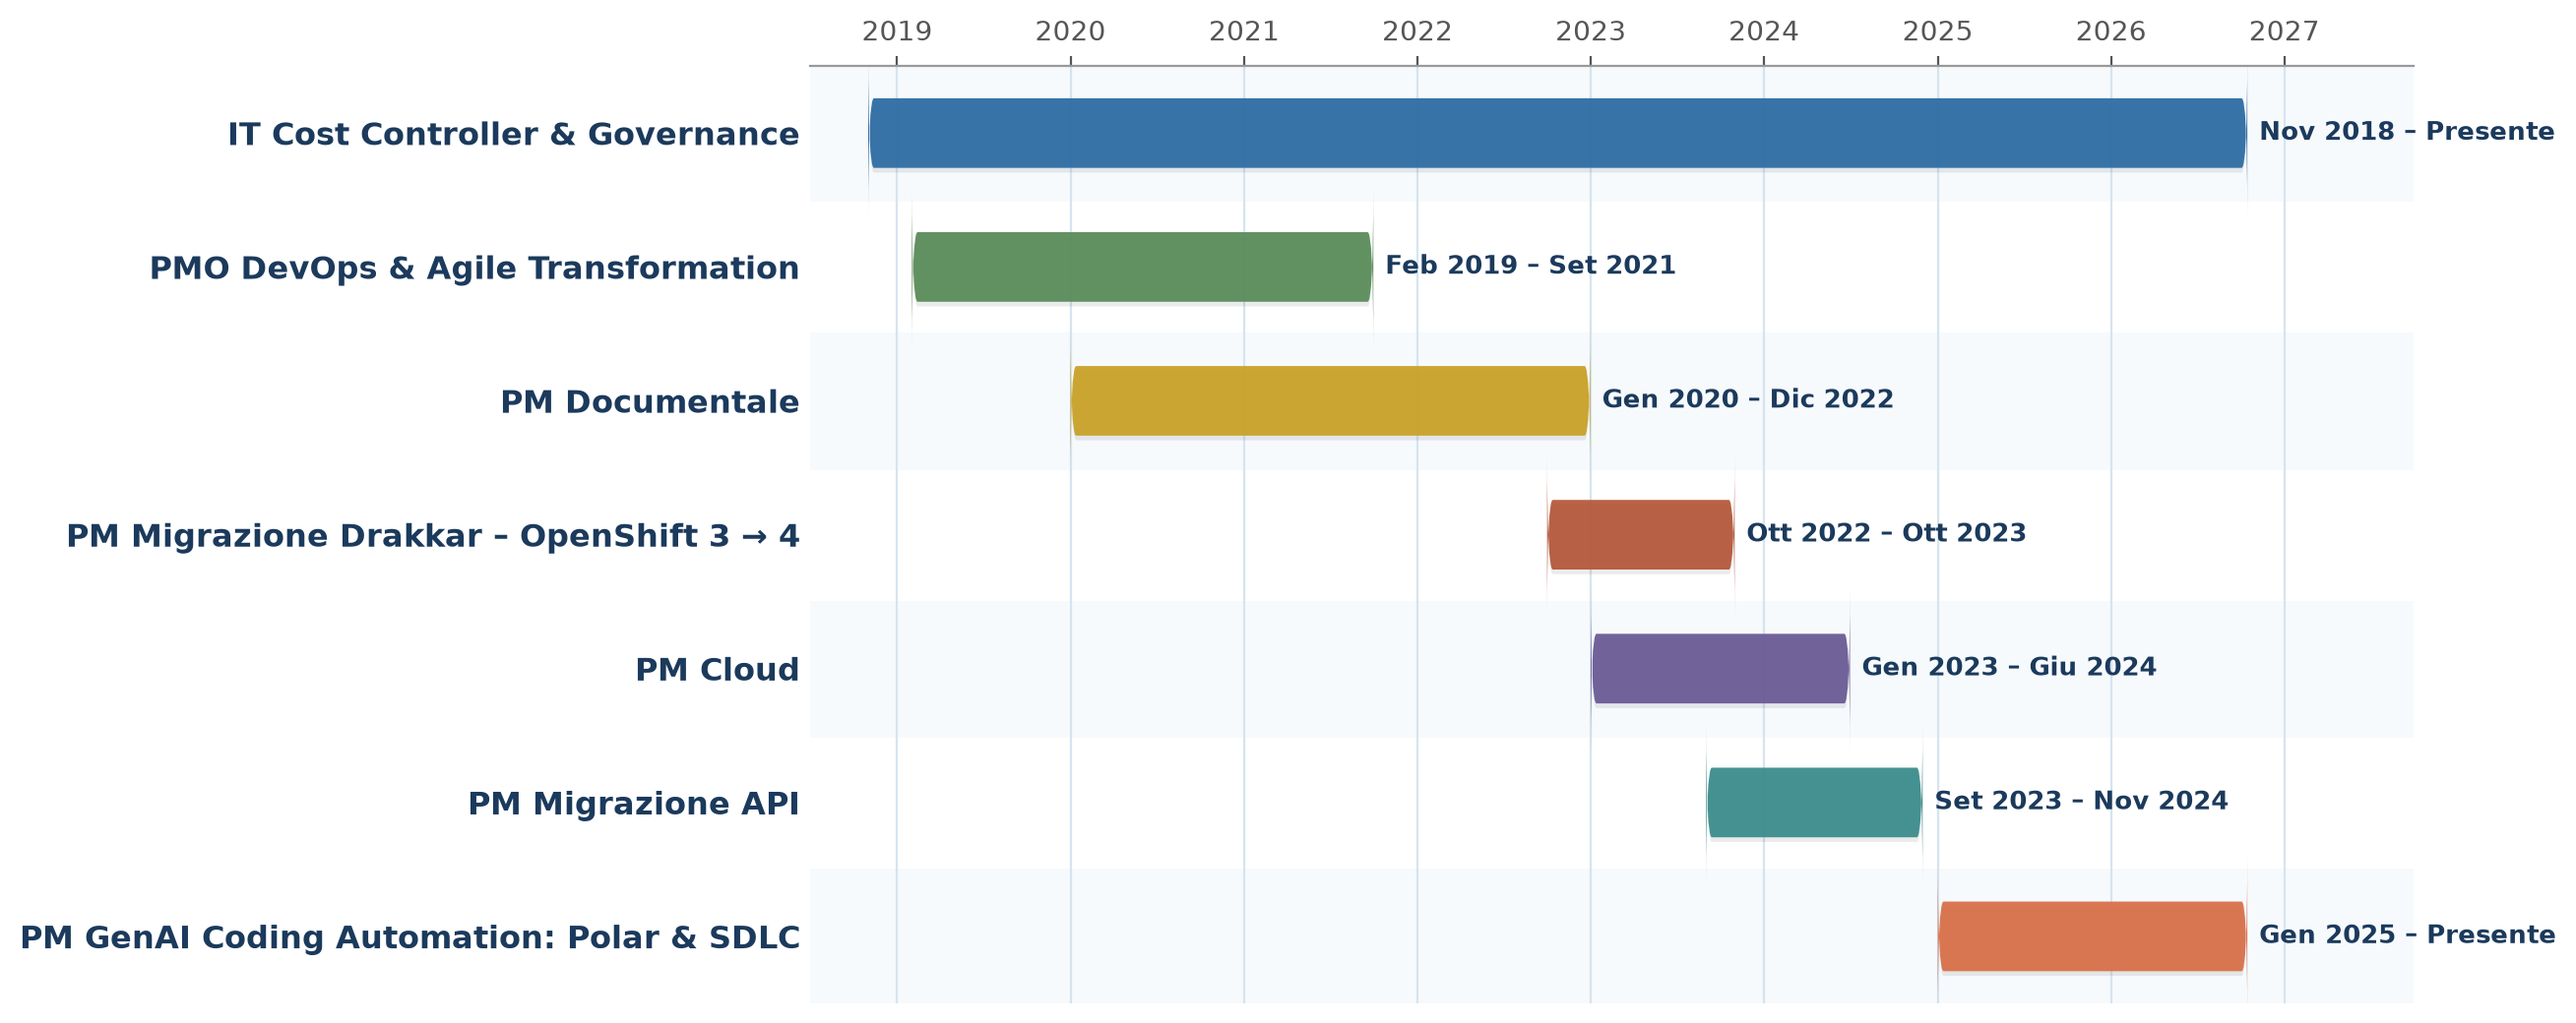
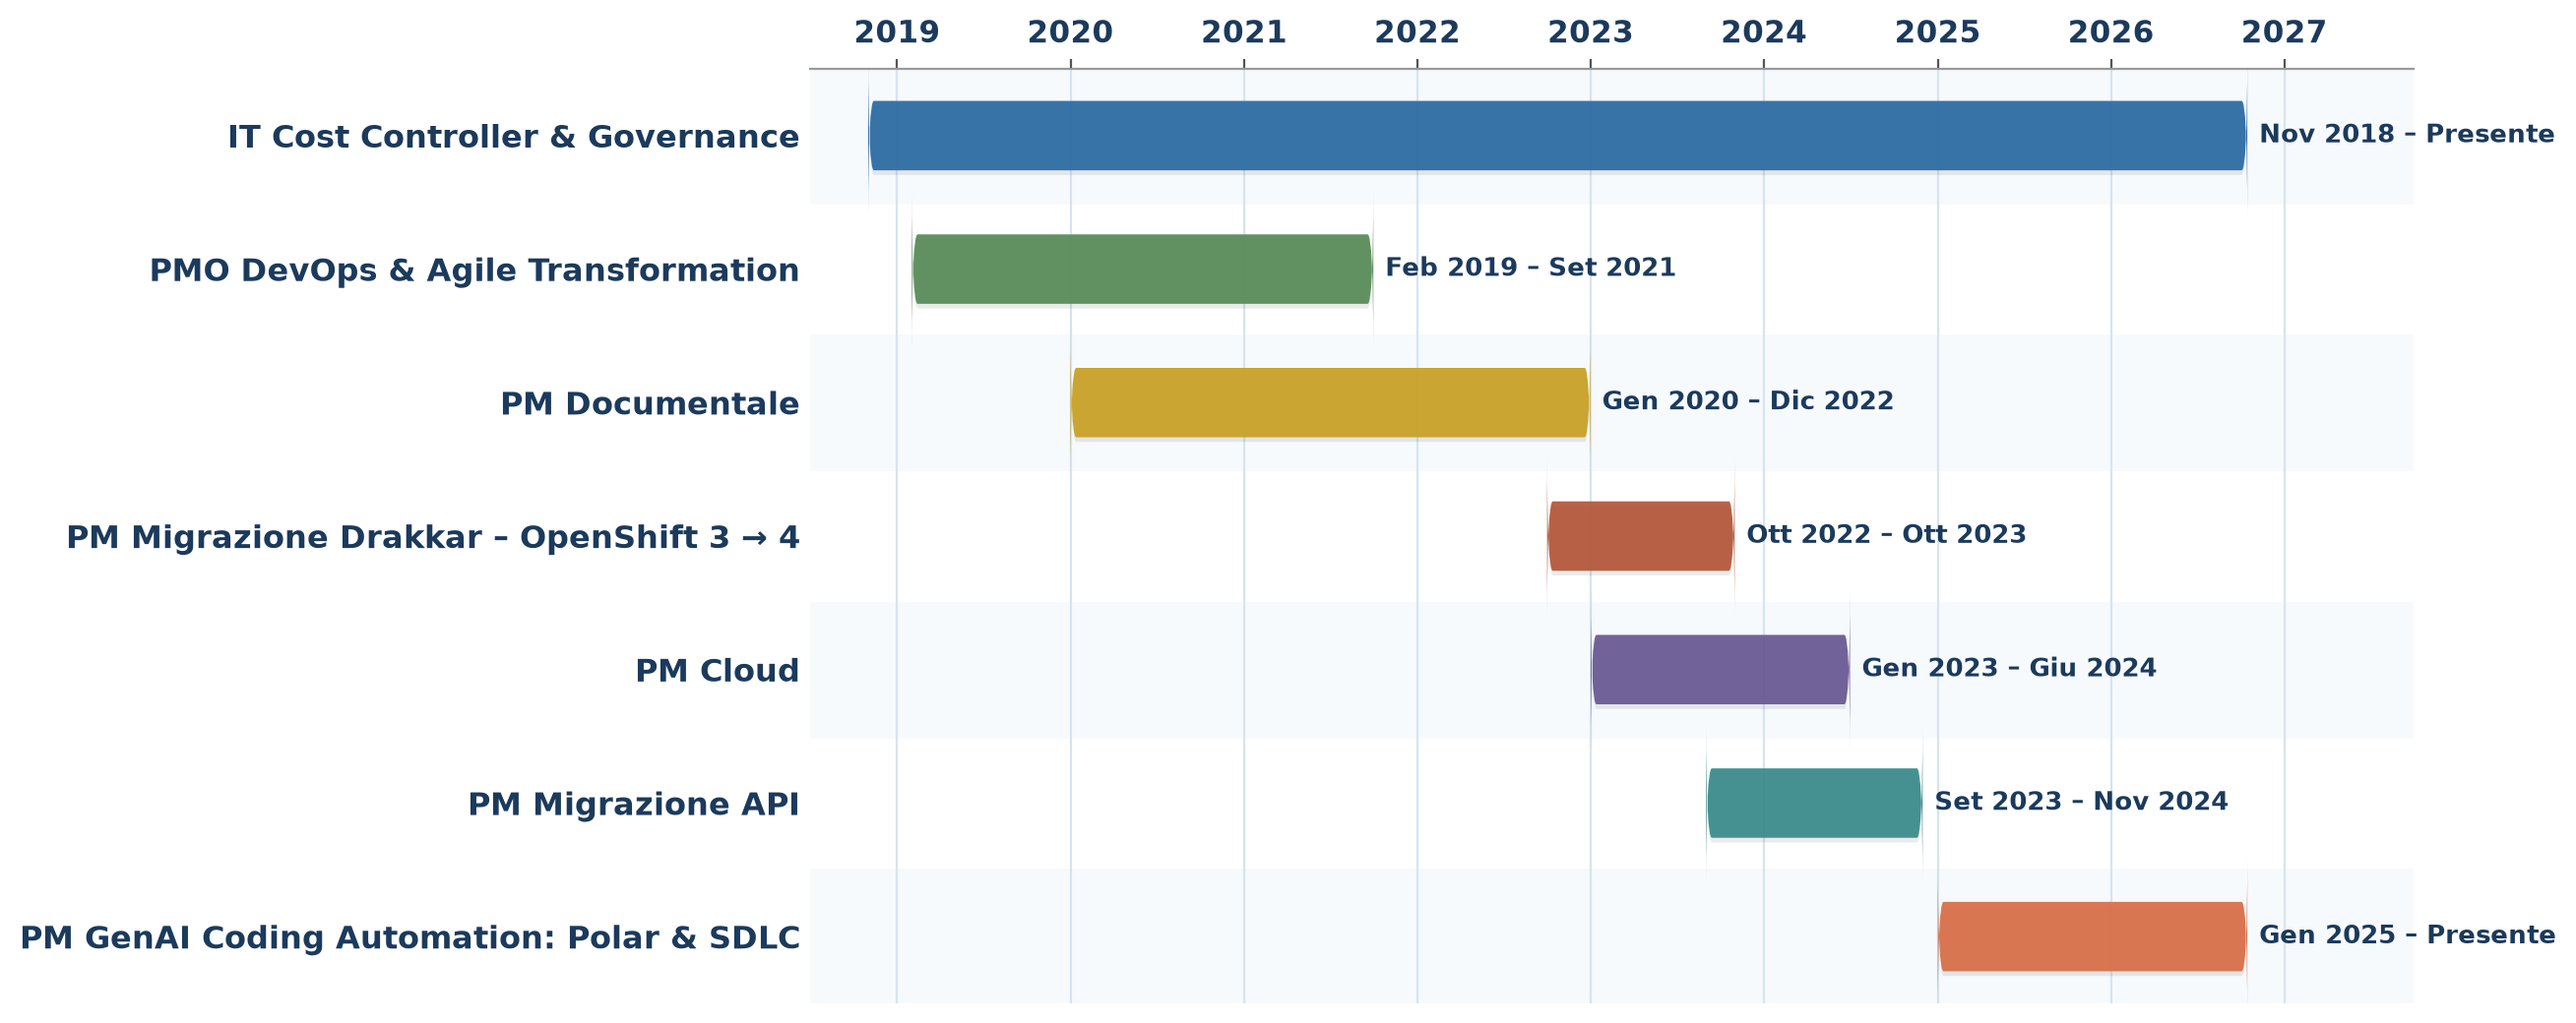
Rende in grassetto gli anni nell'asse del Gantt

diff --git a/cv/index.html b/cv/index.html
@@ -777,7 +777,7 @@
                 </div>
 
                 <div class="gantt-section">
-                    <img src="gantt.png?v=8" alt="Timeline delle iniziative HSPI" class="gantt-image">
+                    <img src="gantt.png?v=9" alt="Timeline delle iniziative HSPI" class="gantt-image">
                 </div>
             </div>
 
